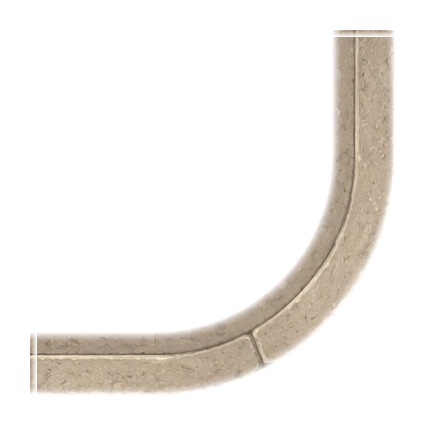
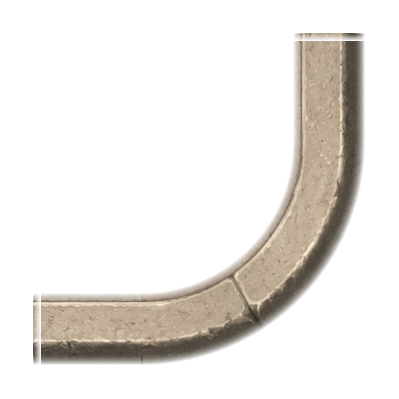
Road curbs are now curb-only everywhere (kill the fill box for real)
The bright rectangular patch was the STRAIGHT road bands (and the short
cross-street curb segments), not the corner: sep-road.png carries the full
sidewalk->curb->road cross-section, so its sidewalk terrazzo (brighter than
world sidewalk.jpg) and road/gutter fill got painted over the world tiles;
isolated segments near a junction read as a lighter box. Last pass only
made the CORNER curb-only, so the box stayed.

Fix: bake one curb-only road strip (sep-road-curb.png = sep-road cropped to
the concrete lip + its contact shadow, feathered to alpha) and use it for
EVERY road band — the horizontal boulevard curbs, the vertical cross-street
curbs, the short south-of-crossing segments, and the stroked corner. Only
the curb is drawn; the world sidewalk and asphalt show through on both
sides, so nothing bleeds onto the street and there's no brighter-than-world
patch. Grass strips/corner untouched (green-on-green, already fine).

Verified at high zoom on the NW/SW corners and the full intersection.

Claude-Session: https://claude.ai/code/session_01MzT91WcyqemncboiCffQLx

Changed region(s): [[0.0602, 0.0602, 0.9323, 0.9323]]

diff --git a/src/game/renderer.ts b/src/game/renderer.ts
@@ -158,6 +158,12 @@ const TILE_ZOOM_GATE = 0.24;
 // variation that never reads as a repeating stamp).
 const NOISE_WORLD = 420;
 
+// Road curb (sep-road-curb.png) — the strip cropped to just the concrete lip + its contact shadow,
+// so it paints only the curb, never fill over the world sidewalk/asphalt. RCH = the band's world
+// height; RCF = the fraction of the band where the sidewalk↔road boundary sits.
+const RCH = 15;
+const RCF = 0.625;
+
 // Player-controlled character tuning. Movement is now bounded by the street "+" corridor
 // (see canWalk in sceneData) rather than a fixed y-band, so the player can walk the full
 // boulevard AND up/down Highland Ave and turn the corner at the intersection.
@@ -1454,18 +1460,19 @@ export class HollywoodRenderer {
     const csRoad: Array<[number, number]> = CROSS_STREETS.map((c) => [c.x - CS_ROAD_HALF, c.x + CS_ROAD_HALF]); // only the cross-street ROAD
     const csHalf: Array<[number, number]> = CROSS_STREETS.map((c) => [c.x - CS_HALF, c.x + CS_HALF]); // road + flanking sidewalks
     // back-lot(asphalt) ↔ north sidewalk — sidewalk BELOW, flip. Cut where cross-street sidewalk
-    // makes it sidewalk↔sidewalk (±CS_HALF).
-    if (!this.drawSeparator("sep-road.png", NORTH_SIDEWALK_TOP, 46, 0.314, true, csHalf))
+    // makes it sidewalk↔sidewalk (±CS_HALF). All road curbs use the CURB-ONLY strip (just the
+    // concrete lip + its shadow) so they never paint fill over the world sidewalk/asphalt.
+    if (!this.drawSeparator("sep-road-curb.png", NORTH_SIDEWALK_TOP, RCH, RCF, true, csHalf))
       this.drawCurb(NORTH_SIDEWALK_TOP, -1, "lot");
     // north sidewalk ↔ boulevard road — sidewalk ABOVE. Curb continues over the cross-street
     // SIDEWALK (it's still sidewalk↔road there), so cut only at the cross-street ROAD (±CS_ROAD_HALF).
-    if (!this.drawSeparator("sep-road.png", ROAD_TOP, 46, 0.314, false, csRoad))
+    if (!this.drawSeparator("sep-road-curb.png", ROAD_TOP, RCH, RCF, false, csRoad))
       this.drawCurb(ROAD_TOP, 1, "road");
     // road ↔ south back-lot — asphalt↔asphalt construction joint (cut around the whole crossing)
     if (!this.drawSeparator("sep-joint.png", ROAD_BOTTOM, 26, 0.5, false, csHalf))
       this.drawExpansionJoint(ROAD_BOTTOM);
     // south back-lot(asphalt) ↔ south sidewalk — sidewalk BELOW, flip
-    if (!this.drawSeparator("sep-road.png", SOUTH_SIDEWALK_TOP, 46, 0.314, true, csHalf))
+    if (!this.drawSeparator("sep-road-curb.png", SOUTH_SIDEWALK_TOP, RCH, RCF, true, csHalf))
       this.drawCurb(SOUTH_SIDEWALK_TOP, -1, "lot");
     // south sidewalk ↔ residential grass — concrete ABOVE, grass below
     if (!this.drawSeparator("sep-grass.png", SOUTH_SIDEWALK_BOTTOM, 54, 0.6, false, csHalf))
@@ -1491,22 +1498,22 @@ export class HollywoodRenderer {
     // cropped to just the concrete lip before stroking) so it never paints the flanking sidewalk/road
     // — the world tiles show through on both sides, no bright patch, no street bleed. Elbow fraction +
     // world size (curb radius ≈ 41u either way) are read straight from the bake output.
-    const RE = 0.838; // road-corner elbow fraction
-    const RC = 87; // road-corner world size
+    const RE = 0.847; // road-corner elbow fraction (curb-only stroked bake)
+    const RC = 83; // road-corner world size (399px ÷ 4.8px/u; curb band = RCH)
     const GE = 0.655; // grass-corner elbow fraction
     const GC = 148; // grass-corner world size
     for (const cs of CROSS_STREETS) {
       if (cs.x + CS_HALF < vx - 20 || cs.x - CS_HALF > vR + 20) continue;
       // vertical road curbs (road EAST of the west seam, WEST of the east seam), open at the blvd
-      this.drawSeparatorV("sep-road.png", cs.x - CS_ROAD_HALF, 46, 0.314, true, mouth);
-      this.drawSeparatorV("sep-road.png", cs.x + CS_ROAD_HALF, 46, 0.314, false, mouth);
+      this.drawSeparatorV("sep-road-curb.png", cs.x - CS_ROAD_HALF, RCH, RCF, true, mouth);
+      this.drawSeparatorV("sep-road-curb.png", cs.x + CS_ROAD_HALF, RCH, RCF, false, mouth);
       // vertical grass curbs on the cross-street's OUTER sidewalk edges, residential grass only
       this.drawSeparatorV("sep-grass.png", cs.x - CS_HALF, 54, 0.6, false, grassOnly);
       this.drawSeparatorV("sep-grass.png", cs.x + CS_HALF, 54, 0.6, true, grassOnly);
       // short curb the cross-street sidewalk shows the boulevard road, just SOUTH of the crossing
       // (road ABOVE, sidewalk below → flipped). Bridges the vertical road curb up to ROAD_BOTTOM.
-      this.drawSeparatorSpanH("sep-road.png", ROAD_BOTTOM, cs.x - CS_HALF, cs.x - CS_ROAD_HALF, 46, 0.314, true);
-      this.drawSeparatorSpanH("sep-road.png", ROAD_BOTTOM, cs.x + CS_ROAD_HALF, cs.x + CS_HALF, 46, 0.314, true);
+      this.drawSeparatorSpanH("sep-road-curb.png", ROAD_BOTTOM, cs.x - CS_HALF, cs.x - CS_ROAD_HALF, RCH, RCF, true);
+      this.drawSeparatorSpanH("sep-road-curb.png", ROAD_BOTTOM, cs.x + CS_ROAD_HALF, cs.x + CS_HALF, RCH, RCF, true);
       // (a) road corners — all four: the sidewalk wraps each corner of the intersection (convex)
       this.drawCornerTile("sep-corner-road.png", cs.x - CS_ROAD_HALF, ROAD_TOP, RC, false, false, RE, RE); // NW
       this.drawCornerTile("sep-corner-road.png", cs.x + CS_ROAD_HALF, ROAD_TOP, RC, true, false, RE, RE); // NE
